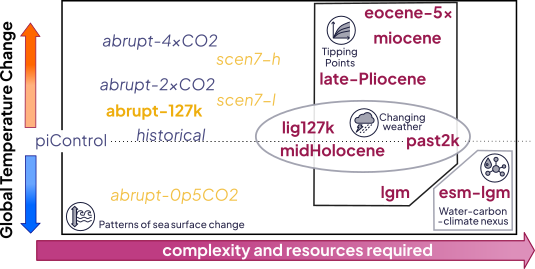
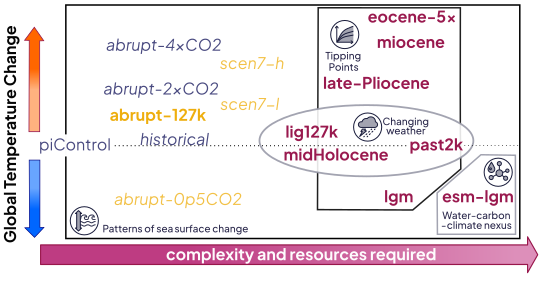
Added new expts-plan to README

diff --git a/README.md b/README.md
@@ -56,8 +56,8 @@ _I'm not so sure what wants to go in this section: ideas?_
 
 ### Outlook for PMIP7
 
-![Figure 5: The PMIP7 experiments and their relationship to CMIP7.](expts-plan/expts-plan.temp-vs-run-time.png)
-[Figure 5: The PMIP7 experiments and their relationship to CMIP7.](expts-plan/expts-plan.temp-vs-run-time.png)
+![Figure 5: The PMIP7 experiments and their relationship to CMIP7.](expts-plan/expts-plan.temp-vs-resources.png)
+[Figure 5: The PMIP7 experiments and their relationship to CMIP7.](expts-plan/expts-plan.temp-vs-resources.png)
 
 * Brief description of CMIP7, and slightly shifted nature of PMIP within it
 * Describe abrupt127k experiment and focus on Arctic
